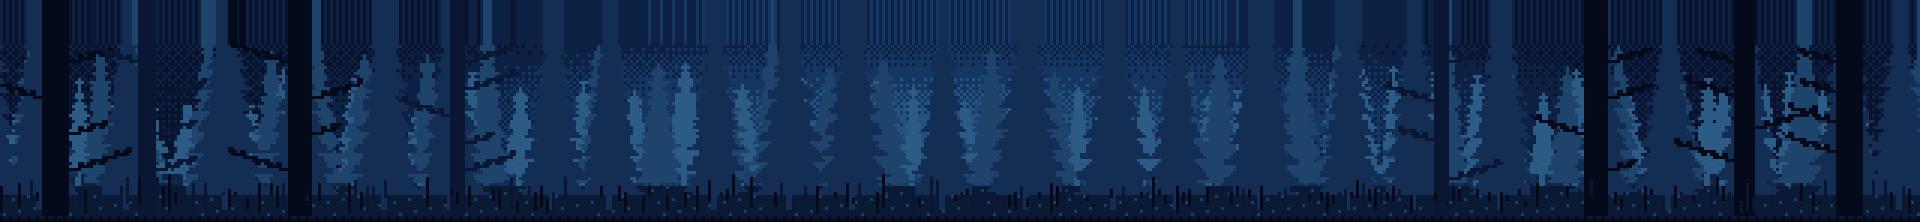
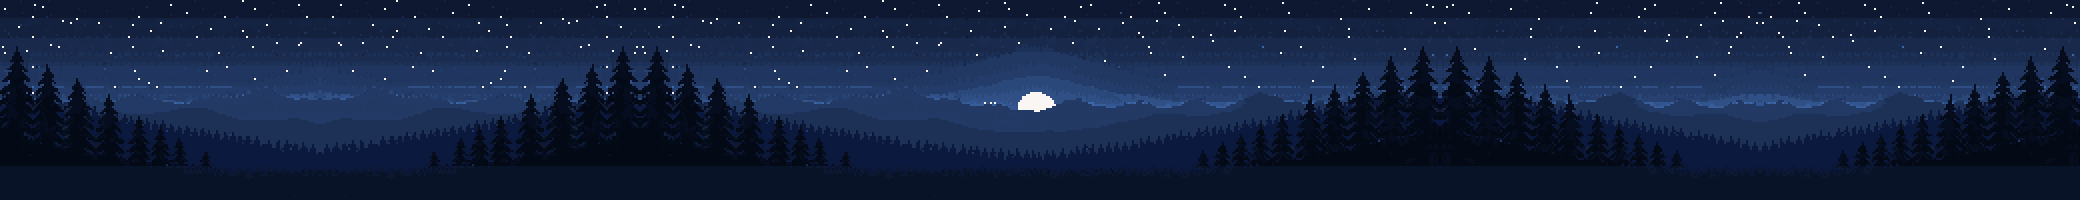
Board: a blue-black night forest, firelight on the ground, 8 witches that keep their place
A new Pixellab forest (avatars/pixellab/forest.png; avatars/forest_bg.py turns it blue-black
and widens it with mirrored edges, one moon) fits the board, now 200px high. The campfire
lights the ground round it (campfire-glow, from avatars/campfire.py). Up to 8 witches sit
round the fire; the most urgent are picked, then they sit by address so a status change
doesn't move them.

diff --git a/mods/kage-agents/main.js b/mods/kage-agents/main.js
@@ -88,7 +88,7 @@ const STATUS_MOVE = { done: "done", blocked: "plead" };
 const openSortMenu = () => openOverlay({ mod: "kage-agents", kind: "popup", width: 200, height: 470, props: { sortMenu: true } });
 const FACE = 96;
 const BEAT = 125, FRAMES = 9; // ms per cast frame, frames
-const FIRE = 250, CAMP = 4; // ms per campfire frame; witches round one fire (more show as "+N")
+const FIRE = 250, CAMP = 8; // ms per campfire frame; witches round one fire (more show as "+N")
 const SECTION = { 4: "Needs you", 3: "Done", 2: "Working", 1: "Idle" };
 const SECTION_STATUS = { 4: "blocked", 3: "done", 2: "working" };
 
@@ -342,7 +342,7 @@ export default class Agents extends View {
   }
 
   // props.board (my-herdr-app's top band, through kage-layout.ps1): the open space's camp, a twilight forest
-  // (forest-bg.png, 1920x222, a different stretch of it per space) with a campfire in the middle and that
+  // (forest-bg.png, 2080x200: avatars/pixellab/forest.png widened with mirrored edges, one moon; a different stretch of it per space) with a campfire in the middle and that
   // space's witches round it: asleep while the agent idles, casting while it works (no monster yet).
   // It sets no agent order: next / previous follow the sidebar's.
   board(t, list, now, step) {
@@ -365,15 +365,19 @@ export default class Agents extends View {
       .text_color(t.muted).hover((s) => s.text_color(t.foreground))
       .on_click(() => openOverlay({ mod: "kage-agents", kind: "popup", width: 220, height: 50 + 31 * Math.max(1, Math.min(10, n)), props: { campMenu: sp.id } }))
       .child(div().child(`terminals (${n})`))
-      .child(image(`mods/kage-agents/campfire-${this.fire % 6}.png`).w(64).h(64));
+      // Its light on the ground (campfire-glow, 400x40, centred at 200,16: the middle of the stone ring), under it.
+      .child(div().relative().w(64).h(64)
+        .child(image(`mods/kage-agents/campfire-glow-${this.fire % 6}.png`).absolute().left(-168).top(36).w(400).h(40))
+        .child(image(`mods/kage-agents/campfire-${this.fire % 6}.png`).w(64).h(64)));
     const camp = (sp) => {
       // The most urgent first, so a NEEDS YOU agent is never the one left out.
       const all = list.filter((a) => a.space === sp.id).sort((x, y) => this.rank(y) - this.rank(x) || this.since(y) - this.since(x));
-      const here = all.slice(0, CAMP), more = all.length - here.length;
+      // Then each keeps its place by the fire (by address, which never changes): a status change doesn't move it.
+      const here = all.slice(0, CAMP).sort((x, y) => x.address.localeCompare(y.address, undefined, { numeric: true })), more = all.length - here.length;
       const left = here.filter((_a, k) => k % 2 === 0), right = here.filter((_a, k) => k % 2 === 1);
       return div().id(`camp-${sp.id}`).relative().flex_1().min_w(0).h_full().overflow_hidden().bg("#0a1226")
         // Twice side by side: the band can be wider than one picture (no sidebar on a 1920px screen).
-        .children([0, 1920].map((x) => image("mods/kage-agents/forest-bg.png").absolute().bottom(0).left(x - (sp.index * 90) % 270).w(1920).h(222)))
+        .children([0, 2080].map((x) => image("mods/kage-agents/forest-bg.png").absolute().bottom(0).left(x - (sp.index * 90) % 270).w(2080).h(200)))
         .child(h_flex().absolute().left(0).right(0).bottom(6).gap(48).justify_center().items_end()
           .children(left.reverse().map(witch)).child(fire(sp)).children(right.map(witch))
           .when(more > 0, (el) => el.child(div().mb(40).text_color(t.muted).child(`+${more}`))))

diff --git a/avatars/campfire.py b/avatars/campfire.py
@@ -40,3 +40,21 @@ for k in range(N):
             q[x, ny] = px[x, y]
     im.save(out / f"campfire-{k}.png")
 print(len(ramp), "flame colours,", len(sparks), "sparks")
+
+# The light round the fire, on the ground only: a flat warm oval in hard bands (pixel art, no smooth
+# fade), cut at the ground's top edge, a little wider or narrower each frame with the flames.
+# 1/4 size, drawn x4: campfire-glow-0..5.png, 400x40, the middle of the fire's ring at 200,16.
+GW, GH, CX, CY = 100, 10, 50, 4  # CY: the middle of the stone ring; the rows above it are the ground up to the trees
+BANDS = ((0.35, 44), (0.6, 30), (0.85, 17), (1.0, 7))  # (how far out, alpha)
+for k in range(N):
+    s = 1 + 0.05 * math.sin(k * 2 * math.pi / N)
+    im = Image.new("RGBA", (GW, GH)); q = im.load()
+    for y in range(GH):
+        for x in range(GW):
+            t = math.hypot((x - CX) / (48 * s), (y - CY) / (9 * s))
+            a = next((al for r, al in BANDS if t < r), 0)
+            # Where two bands meet, a checkerboard of both: a dithered edge.
+            nxt = next((r for r, _ in BANDS if t < r), None)
+            if a and nxt and nxt - t < 0.04 and (x + y) % 2: a = next((al for r, al in BANDS if r > nxt), 0)
+            q[x, y] = (255, 150, 60, a) if a else (0, 0, 0, 0)
+    im.resize((GW * 4, GH * 4), Image.NEAREST).save(out / f"campfire-glow-{k}.png")

diff --git a/avatars/forest_bg.py b/avatars/forest_bg.py
@@ -1,0 +1,19 @@
+# Builds mods/kage-agents/forest-bg.png from avatars/pixellab/forest.png: a blue-black night
+# (the purple sky and its glow go blue by brightness), widened with mirrored edges, one moon, x2.
+from PIL import Image, ImageOps
+a = Image.open('avatars/pixellab/forest.png').convert('RGB'); w, h = a.size
+tone = {(5,3,24):(4,9,22), (7,3,34):(6,13,31), (10,7,30):(8,15,30), (23,23,110):(11,25,62), (24,22,99):(10,23,56), (22,21,87):(9,21,50)}
+ground = {(5,3,24):(9,19,40), (7,3,34):(12,24,50)}
+lum = lambda c: .3*c[0] + .59*c[1] + .11*c[2]
+sky = set(c for _, c in a.getcolors(1 << 16) if c not in tone and min(c) < 200)  # not the stars and moon
+lo, hi = min(map(lum, sky)), max(map(lum, sky))
+dark, light = (8, 14, 34), (62, 104, 172)
+blue = lambda c: tuple(round(d + (l - d) * (lum(c) - lo) / (hi - lo)) for d, l in zip(dark, light))
+for y in range(h):
+    for x in range(w):
+        c = a.getpixel((x, y)); n = (ground if y >= 83 else {}).get(c) or tone.get(c) or (blue(c) if c in sky else None)
+        if n: a.putpixel((x, y), n)
+L, R = a.crop((0, 0, 160, h)), a.crop((240, 0, 400, h))
+s = Image.new('RGB', (1040, h)); x = 0
+for p in (L, ImageOps.mirror(L), a, ImageOps.mirror(R), R): s.paste(p, (x, 0)); x += p.size[0]
+s.resize((2080, 200), Image.NEAREST).save('mods/kage-agents/forest-bg.png', optimize=True)
